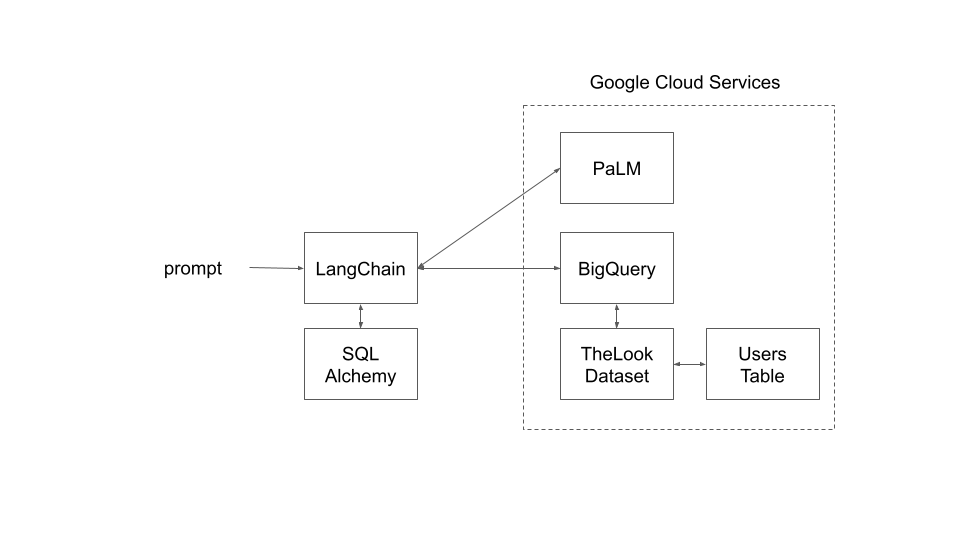
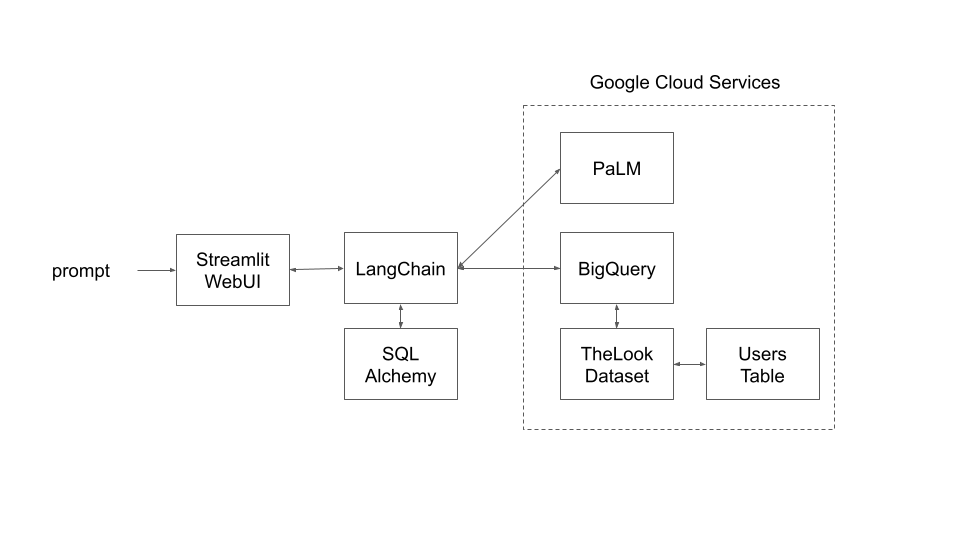
With all files

diff --git a/launcher-PaLM.py b/launcher-PaLM.py
@@ -1,3 +1,9 @@
+#
+# Provided by Samuel Berthollier 
+# From Google - 2023
+#
+
+# Load all dependencies
 import os
 import google.generativeai as palm
 
@@ -6,28 +12,32 @@ from sqlalchemy import *
 from sqlalchemy.engine import create_engine
 from sqlalchemy.schema import *
 
-from langchain.agents import create_sql_agent
+from langchain.agents import create_sql_agent, AgentType, initialize_agent, load_tools, Tool, AgentExecutor
 from langchain.agents.agent_toolkits import SQLDatabaseToolkit
-from langchain.agents import AgentExecutor
 from langchain.sql_database import SQLDatabase
 from langchain.embeddings import GooglePalmEmbeddings
 from langchain.llms import GooglePalm
 
+from langchain.callbacks import StreamlitCallbackHandler
+import streamlit as st
 
+# Set your variables
 service_account_file = "your_sa_account_key_file.json"
 os.environ['GOOGLE_API_KEY'] = 'your_palm_api_key'
 palm.configure(api_key='GOOGLE_API_KEY')
+
 project = "your_project_id"
 dataset = "your_dataset"
 table = "you_table"
-sqlalchemy_url = f'bigquery://{project}/{dataset}?credentials_path={service_account_file}'
 
+# Define modules
+sqlalchemy_url = f'bigquery://{project}/{dataset}?credentials_path={service_account_file}'
 llm = GooglePalm()
 llm.temperature = 0.1
-
 db = SQLDatabase.from_uri(sqlalchemy_url)
 toolkit = SQLDatabaseToolkit(db=db, llm=llm)
 
+# Create the agent
 agent_executor = create_sql_agent(
 llm=llm,
 toolkit=toolkit,
@@ -35,4 +45,10 @@ verbose=True,
 top_k=1000,
 )
 
-agent_executor.run("Who are the top 3 buyers?")
+# Launch Streamlit
+if prompt := st.chat_input():
+    st.chat_message("user").write(prompt)
+    with st.chat_message("assistant"):
+        st_callback = StreamlitCallbackHandler(st.container())
+        response = agent_executor.run(prompt, callbacks=[st_callback])
+        st.write(response)
